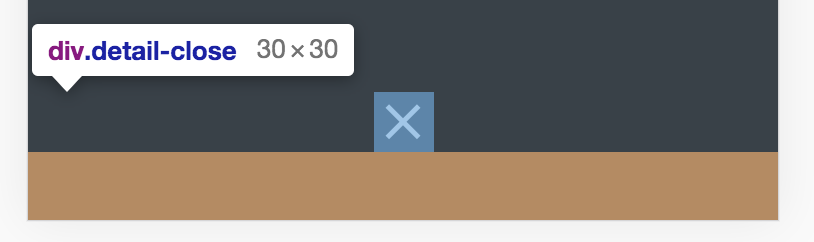
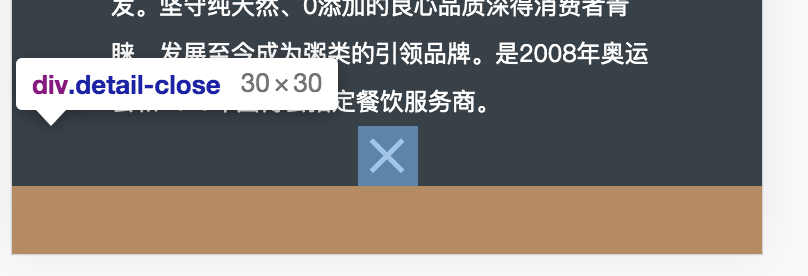
update

Changed region(s): [[0.0, 0.0, 0.9592, 0.9256], [0.1238, 0.0, 0.7735, 0.0579]]

diff --git a/src/components/header-detail/header-detail.vue b/src/components/header-detail/header-detail.vue
@@ -97,7 +97,8 @@
             min-height: 100%
             .detail-main
                 margin-top: 64px
-                padding-bottom: 64px
+                // padding-bottom: 64px
+                margin-bottom: 64px
                 .name
                     line-height: 16px
                     text-align: center

diff --git a/articles/1-3章.md b/articles/1-3章.md
@@ -125,8 +125,6 @@ createAPI
 	
 	
 	
-	
-	
 		
 + 为什么要用margin负值？
 		
@@ -136,9 +134,17 @@ createAPI
 		
 		如果用margin，就没这个效果，是自己距离内容底部 64px,占位置。
 		
-		看两个图的对比：
+		看两个图的对比：上面的是使用了 
+		margin: 0 auto 64px auto
+		下面是
+		margin: -64px auto 0 auto
+		
 
- 
+ 	
+![](https://github.com/shipskunkun/vue-sell-cube/blob/master/articles/images/3-4.png?raw=true	)
+	
+
+![](https://github.com/shipskunkun/vue-sell-cube/blob/master/articles/images/3-5.png?raw=true)
  
  
 
